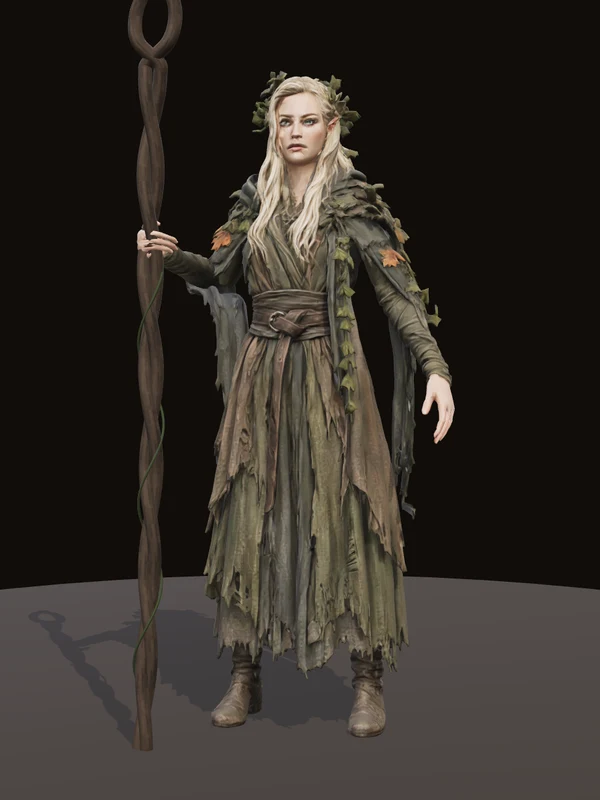
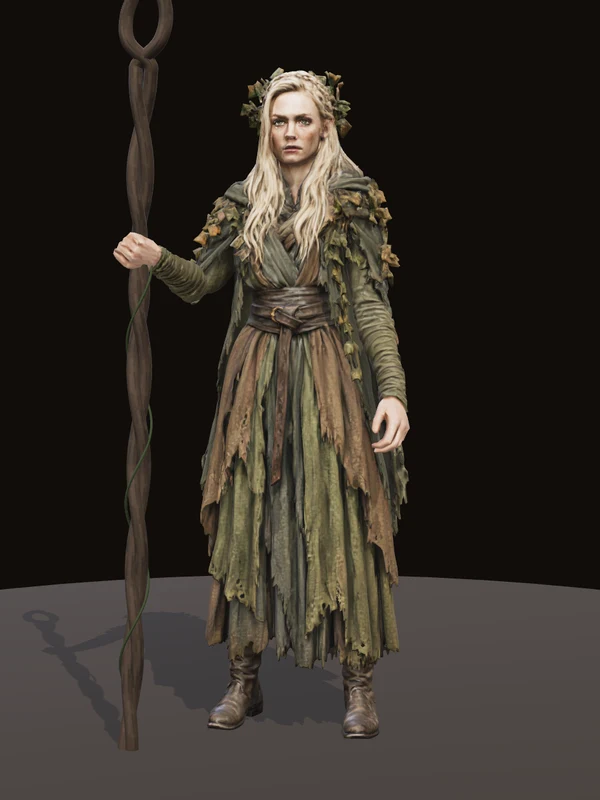
Asset library: a second Wollandora, with her face from the sheet and a fist on her staff
The owner cleared one more model for her face and her grip. The sheet is now the front view alone at full size, with her right hand painted as a fist, and the staff stands through it.

The new model's face came back muddier than the first, as a generator's does. The rig can now lay the sheet's own pixels onto the front of the head (face: sheet in the brief), which is free and is what made the difference.

Changed region(s): [[0.18, 0.0, 0.78, 0.9375]]

diff --git a/asset-library/pipeline/build.ts b/asset-library/pipeline/build.ts
@@ -45,7 +45,13 @@ interface Brief {
   arms: number
   party?: boolean
   // What it holds, built in its hand when it is shown (props.ts) and left off the sheet: { what: "staff", hand: "R", length: 2.1 }.
-  holds?: { what: "staff"; hand: "L" | "R"; length: number }
+  holds?: { what: "staff"; hand: "L" | "R"; length: number; fist?: boolean }
+  // "front" paints the front view alone, upright and at full size: half as many pixels again on a face as the sheet
+  // of two views gives. The model is made from the front alone, so the back view was only ever a reference.
+  sheet?: "front"
+  // "sheet" has the rig lay the sheet's own pixels back onto the front of the head (rig.py): a generator paints a
+  // face again from memory, and softer.
+  face?: "sheet"
   // A beast that stands upright on two legs, painted as an animal and not a person in costume.
   creature?: boolean
 }
@@ -69,17 +75,28 @@ Keep this creature's head, colouring, markings, build and proportions. Render it
 Lighting: soft, even, shadowless studio light from the front, the same in both views, with no rim light and no cast shadow. Background: flat, plain mid-grey, edge to edge. No text, no labels, no props, no floor line.`
 
 const prompt = (b: Brief) => (b.creature ? creaturePrompt(b) : personPrompt(b))
+// A hand that holds something (props.ts) is painted closed, so the model has a fist for the prop to stand in. Bending
+// an open hand's mesh shut does not make a grip.
+const hands = (b: Brief) => {
+  if (!b.holds?.fist) return "hands open with fingers apart, palms toward the thighs. Nothing in the hands."
+  const [own, seen, other] = b.holds.hand === "R" ? ["right", "left", "left"] : ["left", "right", "right"]
+  return `Their own ${own} hand, on the ${seen} of the picture in the front view, is closed in a firm fist with the knuckles forward, the fingers curled tight and the thumb wrapped over them, as if gripping a thick pole that is not there. Their ${other} hand is open with fingers apart, palm toward the thigh. Nothing in either hand.`
+}
+const views = (b: Brief) =>
+  b.sheet === "front"
+    ? "One full-body view from directly in front, upright and centred, filling the frame's height from the top of the head to the soles."
+    : "Two full-body views side by side at the same scale, each filling the frame's height from the top of the head to the soles: on the left the front view, on the right the back view from directly behind with no face visible."
 const personPrompt = (
   b: Brief
-) => `The attached images are the front and the back of a painted game character: ${b.who}. Make one landscape reference sheet of the SAME person as a photorealistic costume photograph, for building a 3D model.
+) => `The attached images are the front and the back of a painted game character: ${b.who}. Make one ${b.sheet === "front" ? "portrait picture" : "landscape reference sheet"} of the SAME person as a photorealistic costume photograph, for building a 3D model.
 
-Two full-body views side by side at the same scale, each filling the frame's height from the top of the head to the soles: on the left the front view, on the right the back view from directly behind with no face visible.
+${views(b)}
 
-Pose, in both views: standing straight, feet a little apart, both arms held out from the body at about ${b.arms} degrees with a clear gap of background between each arm and the body, hands open with fingers apart, palms toward the thighs. Nothing in the hands. ${b.stow} Neutral face, mouth closed, looking straight ahead.
+Pose${b.sheet === "front" ? "" : ", in both views"}: standing straight, feet a little apart, both arms held out from the body at about ${b.arms} degrees with a clear gap of background between each arm and the body, ${hands(b)} ${b.stow} Neutral face, mouth closed, looking straight ahead.
 
-Keep this person's face, hair, build and proportions, and every piece of the outfit: its shapes, colours, emblems and layers. Render it as real materials: worn metal, woven cloth, mail, oiled leather, real skin and hair.
+Keep this person's face, hair, build and proportions, and every piece of the outfit: its shapes, colours, emblems and layers. Render it as real materials: worn metal, woven cloth, mail, oiled leather, real skin and hair.${b.sheet === "front" ? " The face is in sharp focus and finely detailed: clear eyes, a natural closed mouth, real skin." : ""}
 
-Lighting: soft, even, shadowless studio light from the front, the same in both views, with no rim light and no cast shadow. Background: flat, plain mid-grey, edge to edge. No text, no labels, no props, no floor line.`
+Lighting: soft, even, shadowless studio light from the front${b.sheet === "front" ? "" : ", the same in both views"}, with no rim light and no cast shadow. Background: flat, plain mid-grey, edge to edge. No text, no labels, no props, no floor line.`
 
 function run(label: string, command: string, argv: string[]) {
   const r = spawnSync(command, argv, { encoding: "utf8", maxBuffer: 64 * 1024 * 1024 })
@@ -93,12 +110,16 @@ const last = (out: string, tag: string) => {
 
 async function sheet(dir: string, b: Brief) {
   const card = async (file: string) => jpeg(await sharp(`public${file}`).flatten({ background: "#808080" }).toBuffer(), 1536)
-  const png = await codexPaint(`character sheet ${b.id}`, prompt(b), [await card(b.card.front), await card(b.card.back)])
+  const front = b.sheet === "front"
+  const png = await codexPaint(`character sheet ${b.id}`, prompt(b), [await card(b.card.front), await card(b.card.back)], front ? "portrait 2:3" : "landscape 3:2")
   const { width = 0, height = 0 } = await sharp(png).metadata()
   await writeFile(`${dir}/sheet.png`, png)
-  const half = Math.floor(width / 2)
-  await sharp(png).extract({ left: 0, top: 0, width: half, height }).png().toFile(`${dir}/apose-front.png`)
-  await sharp(png).extract({ left: half, top: 0, width: half, height }).png().toFile(`${dir}/apose-back.png`)
+  if (front) await writeFile(`${dir}/apose-front.png`, png)
+  else {
+    const half = Math.floor(width / 2)
+    await sharp(png).extract({ left: 0, top: 0, width: half, height }).png().toFile(`${dir}/apose-front.png`)
+    await sharp(png).extract({ left: half, top: 0, width: half, height }).png().toFile(`${dir}/apose-back.png`)
+  }
   await mkdir(DESKTOP, { recursive: true })
   await sharp(png).jpeg({ quality: 92 }).toFile(`${DESKTOP}/${b.id}-sheet.jpg`)
 }

diff --git a/asset-library/props.ts b/asset-library/props.ts
@@ -16,7 +16,7 @@ const RADIUS = 0.019
 
 // A druid's staff: two old stems wound about each other, parting at the head into an eye and closing over it, with a
 // vine up the lower half. It stands on its foot at the origin, `length` tall.
-function staff(length: number) {
+function staff(length: number, held = -1) {
   const group = new THREE.Group()
   group.name = "prop:staff"
   const eye = 0.26
@@ -27,8 +27,9 @@ function staff(length: number) {
     for (let i = 0; i <= 80; i++) {
       const t = i / 80
       const a = t * TURNS * 2 * Math.PI + phase
-      // The two stems lie closer at the foot, and the whole staff is a little crooked.
-      const out = RADIUS * (0.6 + 0.45 * t)
+      // The two stems lie closer at the foot, and closest where a fist holds them: a staff as wide as the hand that
+      // grips it shows through the knuckles. The whole staff is a little crooked.
+      const out = RADIUS * (0.6 + 0.45 * t) * (held < 0 ? 1 : 1 - 0.72 * Math.exp(-(((t * shaft - held) / 0.09) ** 2)))
       points.push(new THREE.Vector3(0.012 * Math.sin(t * 5.2) + out * Math.cos(a), t * shaft, 0.01 * Math.sin(t * 3.4 + 1) + out * Math.sin(a)))
     }
     const top = points[points.length - 1]
@@ -109,12 +110,6 @@ export function holdProps(root: THREE.Object3D, ground = 0) {
   if (!chest || !upper || !fore || !hand || !palm) return null
   // The figure's left is +x, so its right hand is at -x and turns its palm toward +x.
   const side = held.hand === "L" ? 1 : -1
-  const prop = staff(held.length)
-  prop.traverse((m) => {
-    if (m instanceof THREE.Mesh) m.castShadow = m.receiveShadow = true
-  })
-  root.add(prop)
-
   // Everything below is in the figure's own space: its root may be turned, moved and scaled by whoever stands it.
   const own = new THREE.Quaternion()
   const local = (o: THREE.Object3D) => root.worldToLocal(o.getWorldPosition(new THREE.Vector3()))
@@ -124,6 +119,12 @@ export function holdProps(root: THREE.Object3D, ground = 0) {
   const tall = local(bone("head") ?? chest).y - ground
   // Where the wrist goes: forward of the shoulder and out, at the height of the chest, as one leans on a staff.
   const reach = local(upper).add(new THREE.Vector3(side * 0.12, -0.1, 0.15).multiplyScalar(tall))
+  // A fist's staff is drawn in where the fist comes, at the height the wrist is sent to.
+  const prop = staff(held.length, palm.fist ? reach.y - ground : -1)
+  prop.traverse((m) => {
+    if (m instanceof THREE.Mesh) m.castShadow = m.receiveShadow = true
+  })
+  root.add(prop)
   const [alongUpper, alongFore] = [fore.position.clone().normalize(), hand.position.clone().normalize()]
   const pole = new THREE.Vector3(side * 0.45, -1, -0.55).normalize()
   let foot: THREE.Vector3 | null = null
@@ -156,9 +157,9 @@ export function holdProps(root: THREE.Object3D, ground = 0) {
     if (now.lengthSq() > 1e-6 && want.lengthSq() > 1e-6) fore.quaternion.multiply(new THREE.Quaternion().setFromAxisAngle(alongFore, Math.atan2(level.dot(now.clone().cross(want)), now.dot(want))))
     fore.updateWorldMatrix(false, true)
     const handTurn = upperTurn.clone().multiply(fore.quaternion).multiply(hand.quaternion)
-    const grip = local(hand)
-      .addScaledVector(palm.along.clone().applyQuaternion(handTurn), palm.length * 0.47)
-      .addScaledVector(palm.normal.clone().applyQuaternion(handTurn), RADIUS * 1.9)
+    // An open hand takes it against the palm, under the knuckles. A fist has it through its middle.
+    const [alongHand, outOfPalm] = palm.fist ? palm.middle : [palm.length * 0.47, RADIUS * 1.9]
+    const grip = local(hand).addScaledVector(palm.along.clone().applyQuaternion(handTurn), alongHand).addScaledVector(palm.normal.clone().applyQuaternion(handTurn), outOfPalm)
     // Planted where it first stood, a hand's width farther from the feet than the hand is: it leans in a little.
     foot ??= new THREE.Vector3(grip.x + side * 0.03, ground, grip.z + 0.05)
     prop.position.copy(foot)

diff --git a/asset-library/clips.ts b/asset-library/clips.ts
@@ -174,6 +174,10 @@ export interface Palm {
   along: THREE.Vector3
   normal: THREE.Vector3
   length: number
+  // Modelled closed, as a fist: what it holds stands through its middle, and its fingers are left as they are.
+  fist?: boolean
+  // Where the middle of the hand lies from the wrist, along the hand and out of its palm.
+  middle: [number, number]
 }
 
 // A generated figure's hands come as they were modelled: flat, fingers straight and spread wide, turned out at the
@@ -185,10 +189,13 @@ export function relaxHands(root: THREE.Object3D): Pick<Arms, "wristL" | "wristR"
   if (had) return had
   const out: ReturnType<typeof relaxHands> = { wristL: new THREE.Quaternion(), wristR: new THREE.Quaternion(), palm: {} }
   root.userData.hands = out
-  // The hand that holds something, "staff:R:2.1" on the skeleton (rig.py).
+  // The hand that holds something, "staff:R:2.1" on the skeleton (rig.py), and whether it was modelled as a fist.
   let grips = ""
+  let fist = false
   root.traverse((o) => {
-    if (typeof o.userData.holds === "string") grips = o.userData.holds.split(":")[1] ?? ""
+    if (typeof o.userData.holds !== "string") return
+    grips = o.userData.holds.split(":")[1] ?? ""
+    fist = o.userData.holds.split(":")[3] === "fist"
   })
   root.traverse((o) => {
     if (!(o instanceof THREE.SkinnedMesh)) return
@@ -215,16 +222,18 @@ export function relaxHands(root: THREE.Object3D): Pick<Arms, "wristL" | "wristR"
       const centre = pts.reduce((n, p) => n.add(p), new THREE.Vector3()).divideScalar(pts.length)
       // Along the hand, out of its palm or its back, and across it.
       const h = centre.clone().sub(W).normalize()
-      const n = axes(pts, centre)[2]
+      const closed = fist && grips === side
+      // A fist is a ball, with no flat to find a palm by. The sheet paints it knuckles forward, so its palm is behind.
+      const n = closed ? new THREE.Vector3(0, 0, -1) : axes(pts, centre)[2]
       n.addScaledVector(h, -n.dot(h)).normalize()
       // The palm is the face turned in and down: the sheet a figure is modelled from holds its palms toward the thighs.
-      if (n.dot(new THREE.Vector3(side === "L" ? -1 : 1, -1, 0)) < 0) n.negate()
+      if (!closed && n.dot(new THREE.Vector3(side === "L" ? -1 : 1, -1, 0)) < 0) n.negate()
       const across = new THREE.Vector3().crossVectors(h, n)
       const L = Math.max(...pts.map((p) => p.clone().sub(W).dot(h)))
       const along = pts.map((p) => p.clone().sub(W).dot(h) / L)
       const off = centre.clone().sub(W).dot(n)
-      out.palm[side] = { along: h.clone(), normal: n.clone(), length: L }
-      for (let m = 0; m < ids.length; m++) {
+      out.palm[side] = { along: h.clone(), normal: n.clone(), length: L, fist: closed, middle: [centre.clone().sub(W).dot(h), off] }
+      for (let m = 0; m < (closed ? 0 : ids.length); m++) {
         const [v, t, p] = [ids[m], along[m], pts[m]]
         // Drawn together, then bent at each line from the fingertips back.
         p.addScaledVector(across, -(grips === side ? 0.68 : 0.4) * smooth(0.42, 0.9, t) * p.clone().sub(W).dot(across))

diff --git a/asset-library/pipeline/rig.py b/asset-library/pipeline/rig.py
@@ -355,7 +355,7 @@ rig["hangL"], rig["hangR"] = hang["L"], hang["R"]
 brief_file = os.path.join(out_dir, "character.json")
 holds = (json.load(open(brief_file)) if os.path.exists(brief_file) else {}).get("holds")
 if holds:
-    rig["holds"] = f"{holds['what']}:{holds.get('hand', 'R')}:{holds.get('length', 2)}"
+    rig["holds"] = f"{holds['what']}:{holds.get('hand', 'R')}:{holds.get('length', 2)}" + (":fist" if holds.get("fist") else "")
 
 bpy.ops.object.vertex_group_limit_total(group_select_mode="ALL", limit=4)
 bpy.ops.object.vertex_group_normalize_all(group_select_mode="ALL", lock_active=False)
@@ -398,6 +398,82 @@ for m in body.data.materials:
             if node.type == "TEX_IMAGE" and node.image:
                 colour.add(node.image.name)
             trail += [link.from_node for socket in node.inputs for link in socket.links]
+
+# ── The face, from the sheet ──
+# A generator makes its figure from the sheet's front view and then paints it again from memory: a face that was sharp
+# on the sheet comes back soft, with muddy eyes. The model is the sheet's shape seen from in front, so the sheet's own
+# pixels can be laid back onto whatever of the head faces forward. `"face": "sheet"` in the brief asks for it.
+painted = None
+if (json.load(open(brief_file)) if os.path.exists(brief_file) else {}).get("face") == "sheet" and colour:
+    sheet = bpy.data.images.load(os.path.join(os.path.dirname(os.path.abspath(spec_file)), spec["front"]))
+    sw, sh = sheet.size
+    S = np.empty(sw * sh * 4, dtype=np.float32)
+    sheet.pixels.foreach_get(S)
+    S = S.reshape(sh, sw, 4)[::-1]  # top row first, as the joints are counted
+    # Where the head's middle is across the sheet: the middle of the figure in its topmost rows.
+    grey = np.median(np.concatenate([S[:12, :12, :3].reshape(-1, 3), S[:12, -12:, :3].reshape(-1, 3)]), axis=0)
+    figure_mask = np.abs(S[:, :, :3] - grey).sum(axis=2) > 0.19
+    crown_rows = figure_mask[int(top) : int(top + 0.07 * (bottom - top))]
+    across = np.flatnonzero(crown_rows.any(axis=0))
+    middle = (across.min() + across.max()) / 2 if len(across) else centre
+    image = bpy.data.images[sorted(colour)[0]]
+    tw, th = image.size
+    T = np.empty(tw * th * 4, dtype=np.float32)
+    image.pixels.foreach_get(T)
+    T = T.reshape(th, tw, 4)
+    mesh = body.data
+    mesh.calc_loop_triangles()
+    n = len(mesh.loop_triangles)
+    tri_loops = np.empty(n * 3, dtype=np.int32)
+    tri_verts = np.empty(n * 3, dtype=np.int32)
+    tri_normal = np.empty(n * 3, dtype=np.float32)
+    mesh.loop_triangles.foreach_get("loops", tri_loops)
+    mesh.loop_triangles.foreach_get("vertices", tri_verts)
+    mesh.loop_triangles.foreach_get("normal", tri_normal)
+    uvs = np.empty(len(mesh.loops) * 2, dtype=np.float32)
+    mesh.uv_layers.active.data.foreach_get("uv", uvs)
+    uvs = uvs.reshape(-1, 2)[tri_loops].reshape(n, 3, 2) * np.array([tw, th], dtype=np.float32)
+    V = coords(mesh)[tri_verts].reshape(n, 3, 3)
+    facing = -tri_normal.reshape(n, 3)[:, 1]
+    # The head, from the neck up, and only what looks forward.
+    neck = at["neck"].z
+    head = (V[:, :, 2].min(axis=1) > neck) & (facing > 0.12)
+    texels = 0
+    for k in np.flatnonzero(head):
+        (u0, v0), (u1, v1), (u2, v2) = uvs[k]
+        x0, x1 = int(np.floor(min(u0, u1, u2))) - 1, int(np.ceil(max(u0, u1, u2))) + 1
+        y0, y1 = int(np.floor(min(v0, v1, v2))) - 1, int(np.ceil(max(v0, v1, v2))) + 1
+        x0, y0, x1, y1 = max(x0, 0), max(y0, 0), min(x1, tw - 1), min(y1, th - 1)
+        area = (u1 - u0) * (v2 - v0) - (u2 - u0) * (v1 - v0)
+        if abs(area) < 1e-6 or x1 < x0 or y1 < y0:
+            continue
+        gx, gy = np.meshgrid(np.arange(x0, x1 + 1) + 0.5, np.arange(y0, y1 + 1) + 0.5)
+        b1 = ((gx - u0) * (v2 - v0) - (u2 - u0) * (gy - v0)) / area
+        b2 = ((u1 - u0) * (gy - v0) - (gx - u0) * (v1 - v0)) / area
+        b0 = 1 - b1 - b2
+        # A texel's width past each edge is painted too, or the seams show as the old colour.
+        inside = (b0 > -0.6 / max(1.0, abs(area) ** 0.5)) & (b1 > -0.6 / max(1.0, abs(area) ** 0.5)) & (b2 > -0.6 / max(1.0, abs(area) ** 0.5))
+        if not inside.any():
+            continue
+        P = b0[..., None] * V[k, 0] + b1[..., None] * V[k, 1] + b2[..., None] * V[k, 2]
+        sx = np.clip(middle + P[..., 0] / px, 0, sw - 1.001)
+        sy = np.clip(bottom - P[..., 2] / px, 0, sh - 1.001)
+        ix, iy = sx.astype(np.int32), sy.astype(np.int32)
+        fx, fy = (sx - ix)[..., None], (sy - iy)[..., None]
+        seen = (S[iy, ix, :3] * (1 - fx) + S[iy, ix + 1, :3] * fx) * (1 - fy) + (S[iy + 1, ix, :3] * (1 - fx) + S[iy + 1, ix + 1, :3] * fx) * fy
+        # Most where the head looks straight out of the sheet, none where it turns away, and eased in above the neck.
+        turn = np.clip((facing[k] - 0.12) / 0.4, 0, 1) ** 1.5
+        rise = np.clip((P[..., 2] - neck) / (0.025 * H), 0, 1)
+        # Never the sheet's grey: a point of the model that falls outside the painted figure keeps its own colour.
+        on_figure = figure_mask[iy, ix] & figure_mask[iy + 1, ix + 1]
+        w = (turn * rise * inside * on_figure)[..., None]
+        patch = T[y0 : y1 + 1, x0 : x1 + 1, :3]
+        T[y0 : y1 + 1, x0 : x1 + 1, :3] = patch * (1 - w) + seen * w
+        texels += int(inside.sum())
+    image.pixels.foreach_set(T.reshape(-1))
+    image.update()
+    painted = {"triangles": int(head.sum()), "texels": texels, "sheetMiddle": float(middle)}
+    del S, T
 
 made = []
 for i, (triangles, width, colour_width) in enumerate(LODS):
@@ -459,6 +535,7 @@ report = {
     "slungPoints": slung,
     "hang": hang,
     "holds": holds or None,
+    "faceFromSheet": painted,
     "bones": BONES,
     "lods": made,
 }

diff --git a/asset-library/README.md b/asset-library/README.md
@@ -193,7 +193,8 @@ The owner, 2026-11-15, of Wollandora without her staff: "I was expecting to see 
 
 - `props.ts` builds the prop in code and stands it on the ground beside the figure. A staff is the one prop so far: two stems wound about each other, an eye at the head, a vine up the lower half.
 - That arm is bent to it each frame, after the clip has moved the figure: the wrist is sent forward of the shoulder at chest height, the elbow found from the arm's two lengths, and the forearm rolled until the palm faces across the body.
-- The hand is closed about it. `relaxHands` bends that hand's fingers much further and lays them together. From outside and in front it reads as a fist on the staff. From her own side the fingers lie flat like a fan: a hand is one bone, and bending its mesh is not a grip. A hand modelled closed needs a new model.
+- The hand is modelled closed. `"fist": true` in `holds` has the sheet paint that hand as a fist, knuckles forward, and the staff stands through its middle, drawn in narrow where the fist comes. The first try bent an open hand's mesh shut, and the owner's answer was "her hand on the staff does not look right": from her own side the fingers lay flat like a fan. A hand is one bone, and bending its mesh is not a grip.
+- A fist is a ball, with no flat to tell its palm by. Its palm is taken to be behind it, as the sheet paints it.
 - The staff stays planted and turns on its foot as the hand sways, so Idle, Walk and Hit all hold it with nothing written for it.
 - `rig.py` reads `holds` from the brief and leaves it on the skeleton. After changing it, run `--redo=rig`.
 - The staff is built, not modelled from her card, so it is a plainer staff than the painted one. The thumb does not wrap.
@@ -205,7 +206,13 @@ The owner, 2026-11-15: "her face is not good". It was the middle detail level, 2
 - A scene with three figures or fewer stands them at full detail.
 - Full detail keeps the generator's own 4096 colour. Figures rigged before 2026-11-15 have 2048: `--redo=rig` on each brings them up, then `pnpm assets:thumbs` and `pnpm assets:sync`.
 
-What is left is the generator's: a mouth a little off, a seam on a cheek. A better face is a new model.
+Then the face is taken from the sheet. A generator makes its figure from the sheet's front view and paints it again from memory: a face that was sharp on the sheet comes back soft, with muddy eyes. A second model of Wollandora, made from a better sheet, had worse eyes than the first. The model is the sheet's shape seen from in front, so `rig.py` lays the sheet's own pixels back onto whatever of the head looks forward:
+
+- `"face": "sheet"` in the brief asks for it. It is free, and `--redo=rig` does it on a model already made.
+- `"sheet": "front"` paints the front view alone, upright, 1024 by 1536. A face gets half as many pixels again as on the sheet of two views. The back view was only ever a reference: the model is made from the front.
+- The sheet is lined up with the head by the top of the figure and the middle of its crown. On Wollandora it landed true. If eyes come out doubled, the head is off the sheet: look at `faceFromSheet` in `rig.json`.
+- It fades out where the head turns away from the sheet, so cheeks seen from the side keep the generator's paint, and the join can show as a faint patch.
+- The six figures made before 2026-11-15 have not had it.
 
 ### A beast
 
@@ -338,7 +345,8 @@ Joining the three into one wood was weighed and left alone. The trail's own mark
 - Milos's staff was on his back on the sheet. His model was made from the front, so he has none.
 - The crowd is 16 pictures, mirrored and tinted. Near the play they repeat.
 - Hands are one bone each. `relaxHands` curls and closes the fingers a little, and the arms still stand out from the body. A hand cannot grip, point or rest on a belt.
-- Wollandora: a thin strap at her hip sticks out sideways for part of the walk, and her skirt stretches between her legs as they part. Her 1.86 m is measured to the top of her wreath.
+- Wollandora is her second model. The first is kept in the private bucket's history and at `~/Desktop/d20-asset-library/wollandora-first/`. Her skirt stretches between her legs as they part, and her 1.86 m is measured to the top of her wreath.
+- Her rig's report says 512 bones on a point, where 4 is the most there can be. The copies carry 18 joints and move rightly, so it is the count that is wrong, and nobody has found why.
 - By day the modelled trees' trunks look like smooth clay. The bark's relief does not show.
 - The modelled trees stand still. The set's own swayed.
 - The owlbear moves as a person does. See A beast.
@@ -355,7 +363,7 @@ Joining the three into one wood was weighed and left alone. The trail's own mark
 
 Owner, 2026-11-14: only the party is made in 3D for now. The party is Branka, Thalbern, Lyra, Poppen and Milos the cleric. A brief with `"party": true` is one of them. Everyone else stays a card.
 
-Owner, 2026-11-15: for The Midnight Summons, Wollandora and the owlbear are made in 3D as well, one model each at $0.60. A second try at either needs a new yes. Both were built that day, each on its first model, $1.20 in all.
+Owner, 2026-11-15: for The Midnight Summons, Wollandora and the owlbear are made in 3D as well, one model each at $0.60. A second try at either needs a new yes. Both were built that day, each on its first model. The owner then cleared a second Wollandora, for her face and her grip on the staff: $1.80 in all.
 
 - All five were built on 2026-11-14 for $0.60 each, and each rig's report was clean on its first run. Idle, Walk and Hit play on all of them unchanged.
 - At the Gates the scene's own party is Branka, Cassia, Yeva and Milos. The Gates' look (`looks.ts`) stands Lyra where Cassia is and Poppen where Yeva is, and adds Thalbern beside them. The staging itself is unchanged.
